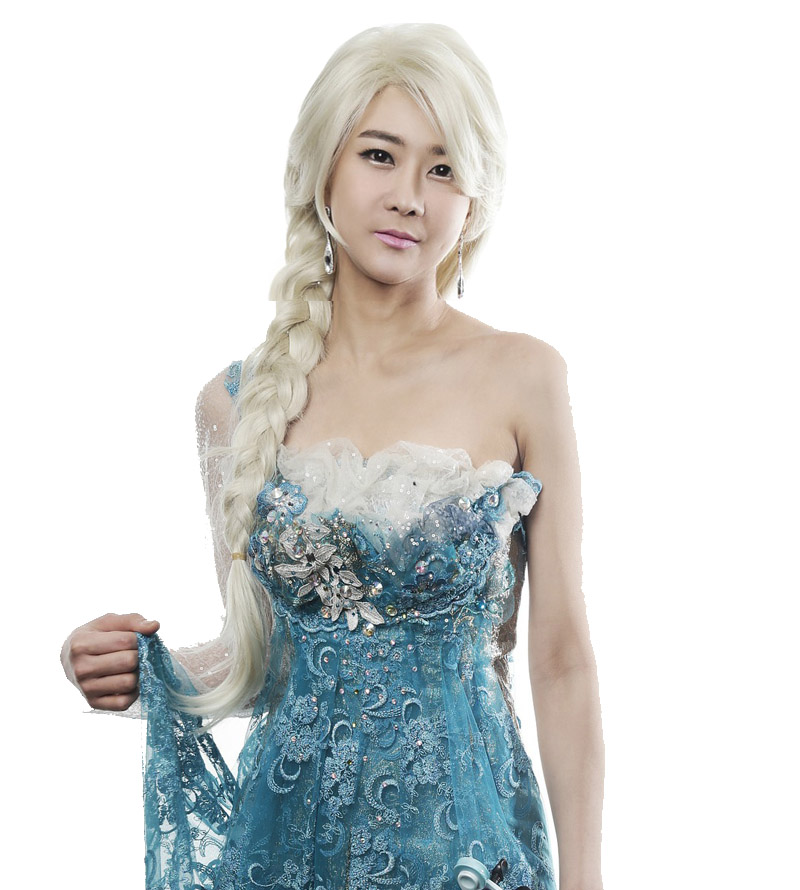
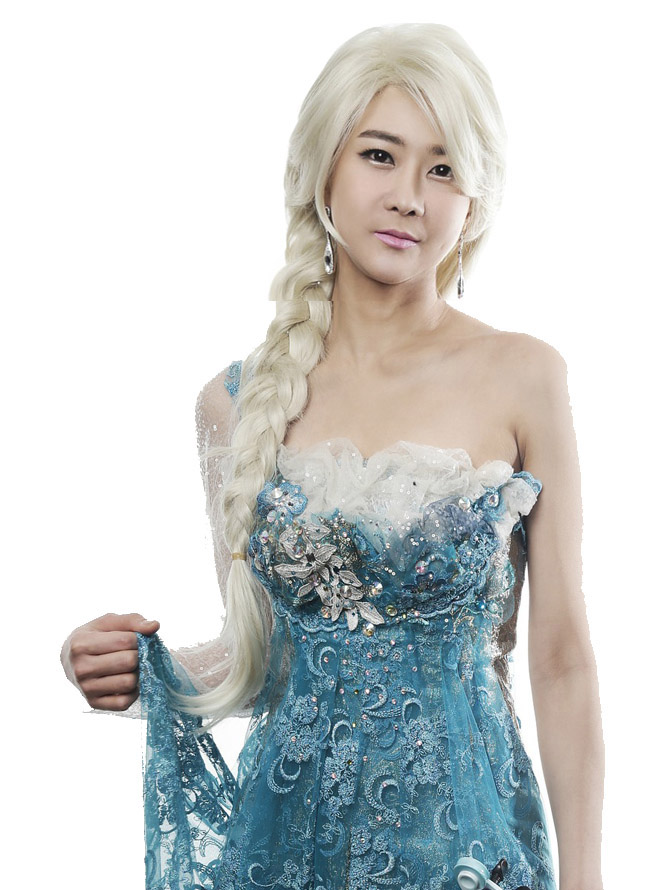
fixed images
fixed the whole site

diff --git a/party.html b/party.html
@@ -17,6 +17,9 @@
   </ul>
 </div>
 <h1> IT'S PARTY TIME!! </h1>
+
+<div id = "pic123"><img src="images/3456426.jpg" width="650" height="890" alt=""/></div>
+
 <div id = "maintxt">
 <p> On the first Saturday of every month we hold a "CossiePlay Party" at the Town Hall. Entry is $15 for adults, $10 for ages 6-17 and kids under 6 are free. Each Entry includes one non-alcoholic drink and a glow stick. Parties start at 6:OOpm and run until 11:00pm. There is always a live DJ at the party (who will be taking requests) and dancing is common, but not required. </p>
 <h1> Party Guidelines </h1>
@@ -26,9 +29,9 @@
         <li> Alcohol is served at the bar to over 18s only. No intoxicated persons will be served, but will be escorted to a taxi - paid by the party-goer. </li>
 </ul>
 </div>
-<div id = "partypic"> <img src="images/party-1506740-640x480.jpg" width="640" height="480" alt=""/></div>
+
  
- <div id = "nav2">
+<div id = "nav2">
   <ul> 
     	<li> <a href="signUp.html">SIGN UP FOR THE PARTY!!</a> </li>
 	</ul>

diff --git a/mainStyles.css b/mainStyles.css
@@ -41,6 +41,7 @@ h1{
 	float: right;
 	margin-right: -84px;
 	margin-bottom: 28px;
+	padding-right: 85px;
 }
 
 #main{
@@ -51,7 +52,8 @@ h1{
 	font-variant: normal;
 	font-weight: bold;
 	font-size: x-large;
-	float: left
+	float: left;
+	padding-top: 70px;
 }
 
 body{
@@ -108,10 +110,7 @@ body{
 
 #table1{
 	position: absolute;	
-	top: 50%;
-	left: 50%;
-	margin-top: -50px;
-	margin-left: -100px;
+	padding-left: 50px;
 	font-size: xx-large;
 }
 
@@ -140,11 +139,11 @@ body{
 
 #sign{
 	position: fixed;
-	top: 50%;
-	left: 50%;
+	top: 20%;
+	margin-right: auto;
 	margin-top: -50px;
-	margin-left: -100px;
-	font-size: xx-large;
+	margin-left: 300px;
+	font-size: 71px;	
 	}
 
 #info table{
@@ -159,5 +158,16 @@ body{
 	float: right;
 	margin-right: -84px;
 	margin-bottom: 28px;
+	padding-right: 100px;
 	
+	
+}
+
+#cospic{ 
+	padding-left: 800px;
+	padding-top: 50px;
+}
+
+h1{
+	padding-left: 20px;
 }

diff --git a/cosplay.html b/cosplay.html
@@ -22,7 +22,7 @@
 
 <h1> CosPlay? </h1>
 
-<div id = "pic123"> <img src="images/main2.jpg" width="800" height="890" alt=""/></div>
+<div id = "pic123"><img src="images/main342.jpg" width="650" height="890" alt=""/></div>
 
 <div id = "maintxt">
 <p> Cosplay, (meaning costume play), is a performance art in which participants called cosplayers wear costumes and fashion accessories to represent a specific character. Cosplayers often interact to create a subculture. A broader use of the term "cosplay" applies to any costumed role-playing in venues apart from the stage. Any entity that lends itself to dramatic interpretation may be taken up as a subject and it is not unusual to see gender roles switvhed within the world of cosplay. </p>

diff --git a/aboutUs.html b/aboutUs.html
@@ -21,7 +21,7 @@
 
 <h1> ABOUT US </h1>
 
-<div id = "pic123"> <img src="images/main342.jpg" width="800" height="890" alt=""/> </div>
+<div id = "pic123"> <img src="images/main342.jpg" width="650" height="890" alt=""/></div>
 
 <div id = "maintxt">
 <p> CossiePlay is a family-run business, operating in Viennaville since 2011. We create outstanding custom-made costumes. Cosplayers can order any kind of costume - from simple Spiderman or elf costumes, right up to costumes including advanced features like armour, animatronics, realistic weaponry and working force fields. </p>

diff --git a/index.html b/index.html
@@ -20,8 +20,7 @@
 
 <h1> ANNOUNCEMENTS </h1>
 
-<div id = "pic1"> <img src="file:///F|/IT Degree/CP1406/Assignment 1/Website/images/main.jpg" width="811" height="971" alt=""/>
-</div>
+<div id = "pic1"> <img src="images/main34.jpg" width="650" height="890" alt=""/></div>
 
 
 <div id = "main">

diff --git a/costumes.html b/costumes.html
@@ -86,6 +86,6 @@
 </table>
 </div>
 
-        
+<di id = "cospic"> <img src="images/party-1506740-640x480.jpg" width="640" height="480" alt=""/> </div
 </body>
 </html>
